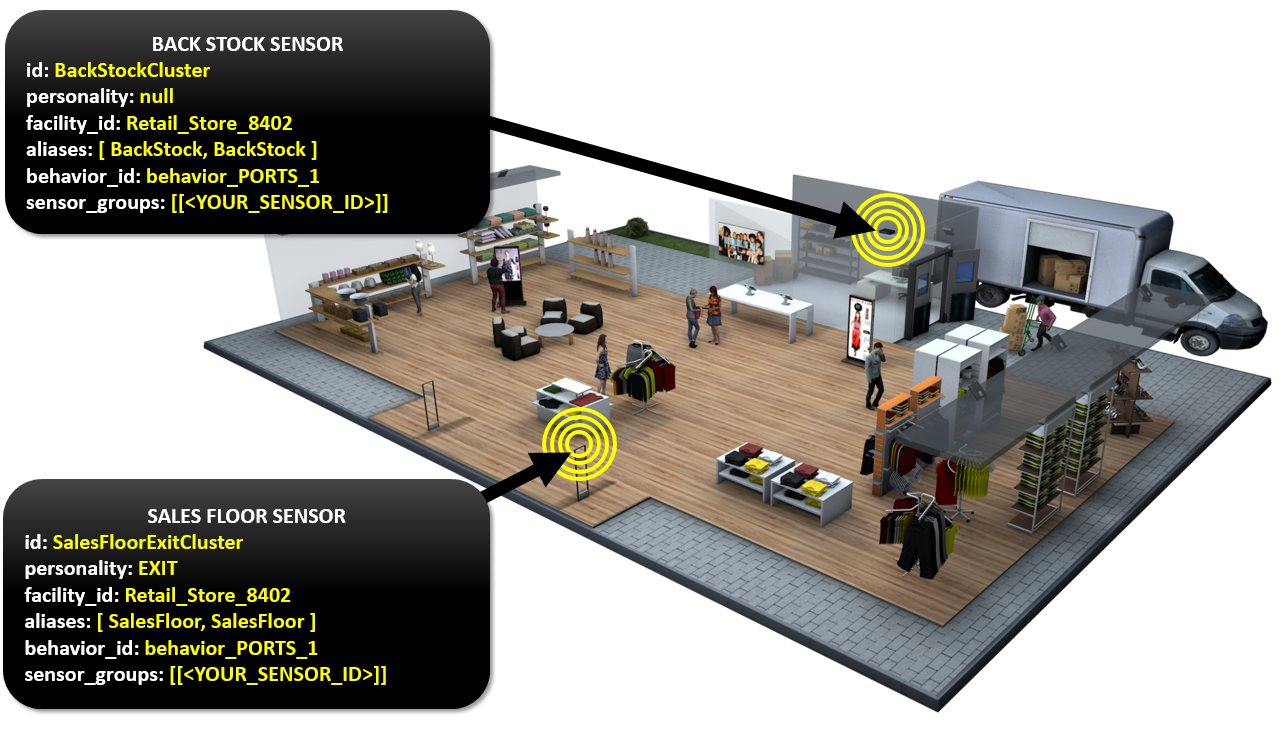
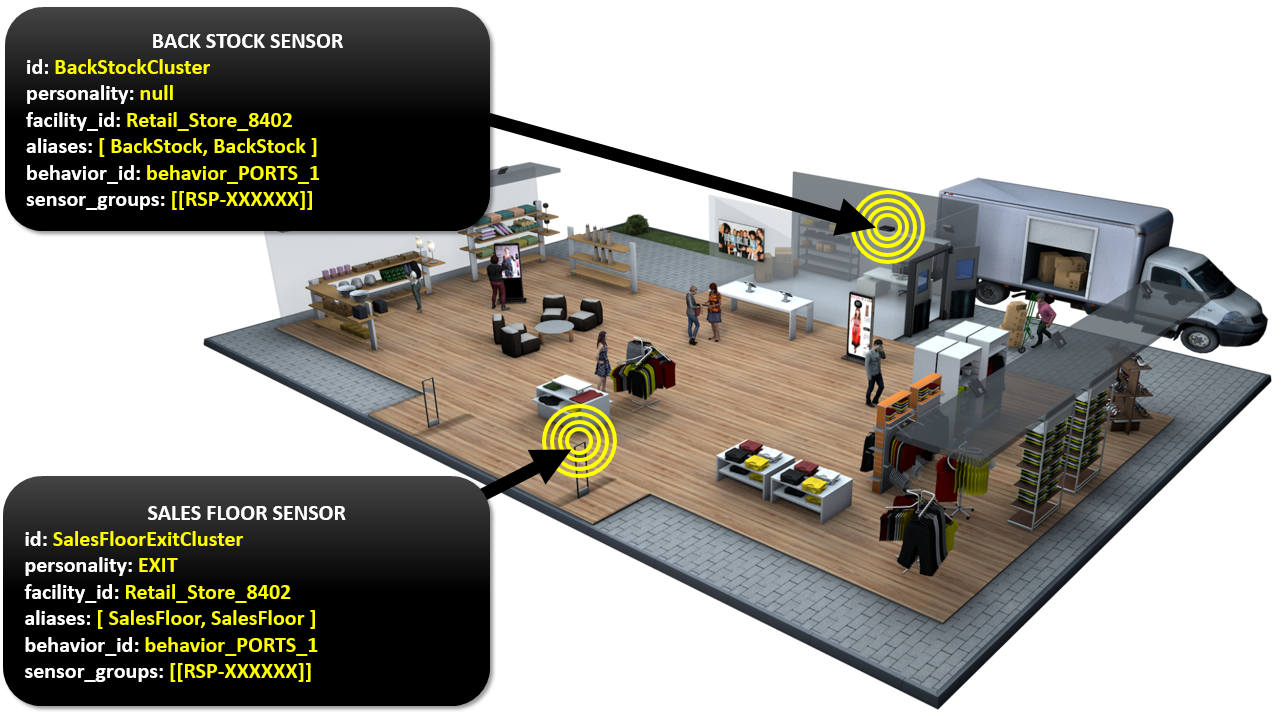
Retail H3000 Tutorial Updates
* fixed "cluser" typo

* highlighted that EXIT must be capitalized for personalities

* updated sensor id note

* updated sensor ID example

* add link to pre-req step 7

* adding troubleshooting section for cluster config

* Fixed the carriage return after the cluster config image

* Fixed indentation on a paragraph

* Added an ID tag to make a link work

* Fixed the troubleshooting comments

* updated store picture with new RSP naming convention

* Updated a troubleshooting link

diff --git a/examples/use-cases/retail/h3000/README.md b/examples/use-cases/retail/h3000/README.md
@@ -48,14 +48,14 @@ or an equivalent setup.
 
 6. Remove all other tags from the room.  
 
-7. The sensors need to be positioned in an optimal setting.  Face them away from each other, point them in different 
-directions and space them at least 3-5 feet apart (see image below).
-![H3000 Physical Setup](../../resources/H3000_Physical_Setup.png)
+7. <div id="phys_setup"></div>The sensors need to be positioned in an optimal setting.  Face them away from each other, point them in different directions and space them at least 3-5 feet apart (see image below).  
+
+    ![H3000 Physical Setup](../../resources/H3000_Physical_Setup.png)
 
 ## Terminology and Concepts
 | Term | Definition |
 | :------ | :------ |
-| Sensor/Device ID | This is the unique identifier for each sensor.  The ID consists of "RSP-" followed by the last 6 characters of that sensor's MAC address.  The MAC Address is located on the sensor's label.  Based on the following image, the sensor ID would be RSP-1508e4.  ![Hx000 MAC](../../resources/Hx000-MAC-75.jpg) |
+| Sensor/Device ID | This is the unique identifier for each sensor.  The ID consists of "__RSP-__" followed by the last 6 characters of that sensor's MAC address.  The MAC Address is located on the sensor's label.  Based on the following image, the sensor ID would be RSP-1508e4.  ![Hx000 MAC](../../resources/Hx000-MAC-75.jpg) |
 | Personality | This is an optional attribute that can be assigned to the sensors. It is utilized by the RSP Controller to generate specific types of tag events. |
 | Alias | An alias can be used to identify a specific sensor/antenna-port combination.  This tuple is used to identify the location of tags in the inventory. The alias allows you to give meaningful names (like BackStock or FittingRoom1) for the locations as opposed to using sensor and antenna IDs.  The default value is the sensor ID followed by a hyphen followed by the antenna port number, for example RSP-1508e4-0. |
 | Facility | This is used to define zones that consist of one or more sensors.  A typical deployment/location/store will be configured as one facility. |
@@ -99,7 +99,7 @@ You will need to edit the __retail_cluster_config.json__ file __(located at ~/pr
           ]
         }
         ```     
-    2. __personality__: The location for the first cluster (BackStockCluster) will be internal to the store and doesn't need to be assigned any personality, so we will give it a value of __null__.  The location for the second cluster (SalesFloorExitCluster) is being used to configure an "edge/boundary" location from where tags may leave the facility, so we will set the personality to __EXIT__.  This will generate a "departed" event whenever a tag is removed from this cluster's location.
+    2. __personality__: The location for the first cluster (BackStockCluster) will be internal to the store and doesn't need to be assigned any personality, so we will give it a value of __null__.  The location for the second cluster (SalesFloorExitCluster) is being used to configure an "edge/boundary" location from where tags may leave the facility, so we will set the personality to __EXIT (MUST BE CAPITALIZED)__.  This will generate a "departed" event whenever a tag is removed from this cluster's location.  
         ```json
         {
           "id": "RetailUseCaseClusterConfigExample",
@@ -171,10 +171,10 @@ You will need to edit the __retail_cluster_config.json__ file __(located at ~/pr
           ]
         }
         ``` 
-    6. __sensor_groups__: This is where you identify which specific sensors are grouped together.  These sensor groups will be governed by the settings that we just configured in their respective cluster.  All sensors in each group will run at the same time.  If there are multiple sensor groups per cluster, each group will run sequentially.  In a large deployment, you may have many sensors that could interfere with each other (they cover the same area, they are facing each other, etc.).  You can place them in different groups so that they aren't running at the same time.<br/><br/>
-      In this use-case, for each cluster, we will have one sensor group with a single sensor in it.  __You will need to use your actual sensor's ID in order for the controller application to function properly.__  To find the sensor ID of your sensor, see the label on the back of your sensor (see image below):<br/>
+    6. __sensor_groups__: This is where you identify which specific sensors are grouped together.  These sensor groups will be governed by the settings that we just configured in their respective cluster.  All sensors in each group will run at the same time.  If there are multiple sensor groups per cluster, each group will run sequentially.  In a large deployment, you may have many sensors that could interfere with each other (they cover the same area, they are facing each other, etc.).  You can place them in different groups so that they aren't running at the same time.<br/><br/><div id="sensor_naming"></div>
+      In this use-case, for each cluster, we will have one sensor group with a single sensor in it.  __You will need to use your actual sensor's ID in order for the controller application to function properly.__  To find the sensor ID of your sensor, see the label on the back of your sensor (see image below):<br/><br/>
       ![Sensor_Id_Image](../../resources/sensor_idx75.png)<br/>
-      __NOTE: The last six characters of the sensor ID can only consist of numeric characters zero through nine and alpha characters A through F [0-9,A-F].__<br/><br/>
+      __NOTE: Sensor ID = "RSP-XXXXXX" where XXXXXX is the last six characters of the device MAC address.  The last six characters can only consist of numeric values zero through nine and alpha characters A through F [0-9,A-F].  See image above.__<br/><br/><div id="sample_cluster"></div>
       If done correctly, your cluster configuration file should now look like the following, except with your correct sensor IDs:
         ```json
         {
@@ -186,19 +186,19 @@ You will need to edit the __retail_cluster_config.json__ file __(located at ~/pr
               "facility_id": "Retail_Store_8402",
               "aliases": [ "BackStock", "BackStock" ],
               "behavior_id": "behavior_PORTS_1",
-              "sensor_groups": [["<YOUR_SENSOR_ID>"]]
+              "sensor_groups": [["RSP-XXXXXX"]]
             }, {
               "id": "SalesFloorExitCluster",
               "personality": "EXIT",
               "facility_id": "Retail_Store_8402",
               "aliases": [ "SalesFloor", "SalesFloor" ],
               "behavior_id": "behavior_PORTS_1",
-              "sensor_groups": [["<YOUR_SENSOR_ID>"]]
+              "sensor_groups": [["RSP-XXXXXX"]]
             }
           ]
         }
         ```  
-    __NOTE: In this instance, although the sensors are in different groups, they are also in different clusters.  Since clusters are independent of each other, both sensors will end up running at the same time, so make sure to space the sensors apart and make them face away from each other as outlined and illustrated in Step 7 in the [Prerequisites section](#prerequisites).__
+        __NOTE: In this instance, although the sensors are in different groups, they are also in different clusters.  Since clusters are independent of each other, both sensors will end up running at the same time, so make sure to space the sensors apart and make them face away from each other as outlined and illustrated in [Step 7 in the Prerequisites section](#phys_setup).__
 
 3. (Optional) Now that the file is complete, it would be a good idea to pass the contents of the file through a JSON linter (such as https://jsonlint.com/, which is a convenient online JSON linting tool) to ensure your file has proper JSON formatting.
 
@@ -251,8 +251,17 @@ using the [Cluster Config](http://localhost:8080/web-admin/cluster-config.html) 
 
     The cluster configuration file can be found at __~/projects/rsp-sw-toolkit-gw/examples/use-cases/retail/h3000/retail_cluster_config.json__.
 
-    The cluster IDs (BackStockCluser and SalesFloorExitCluser) will be displayed.  If you click on the cluster ID name, you should see the values that you set in the cluster configuration file.
-    ![Cluster_Config_Upload_Button](../../resources/Cluster_after_load.png)
+    The cluster IDs (BackStockCluster and SalesFloorExitCluster) will be displayed.  If you click on the cluster ID name, you should see the values that you set in the cluster configuration file.
+
+    ![Cluster_Config_Upload_Button](../../resources/Cluster_after_load.png)  
+    __TROUBLESHOOTING:  If your Cluster Config page does not look like the image above then:__
+    - Verify you successfully loaded the behavior file in the previous step.
+    - Verify your cluster config file is valid.
+        - Ensure your cluster config file has proper JSON formatting using the [JSON Linting tool](https://jsonlint.com/).
+        - Make sure the values for the Sensor IDs follow the "RSP-XXXXXX" [naming convention](#sensor_naming).
+        - Make sure to capitalize the word "EXIT" for the cluster with the EXIT personality.
+        - Make sure the only differences between your cluster config file and the [sample seen above](#sample_cluster) are your Sensor IDs.
+    - Try maximizng your browser window.
 <br/><br/>
 6. On the [Scheduler](http://localhost:8080/web-admin/scheduler.html) page, start the sensors reading 
 according to the cluster configuration by pressing the __FROM_CONFIG__ button.
@@ -269,9 +278,9 @@ and aliases) and are reading tags.  Your sensor page should look like the follow
 
     ![Sensor_After_Confile_File_Load](../../resources/Sensors_after_load.png)
   
-     ![Sensor_Connected_Icon](../../resources/Sensor_Connected_Icon_vsm.png) Sensor is connected.  
-     ![Sensor_NotConnected_Icon](../../resources/Sensor_Disconnected_Icon_vsm.png)  Sensor is disconnected.  
-     ![Sensor_Reading_Icon](../../resources/Sensor_Reading_Icon_vsm.png)  Sensor is reading tags.
+     ![Sensor_Connected_Icon](../../resources/Sensor_Connected_Icon_vsm.png) Connected  
+     ![Sensor_NotConnected_Icon](../../resources/Sensor_Disconnected_Icon_vsm.png)  Disconnected  
+     ![Sensor_Reading_Icon](../../resources/Sensor_Reading_Icon_vsm.png)  Reading tags
    
    __TROUBLESHOOTING:  If your sensor page does not look like the image above then:__
      - __Make sure the cluster configuration file is valid.  Check the steps you performed in the [Configure / Control the Intel&reg; RSP Controller Application](#configure--control-the-intel-rsp-controller-application) section.__
